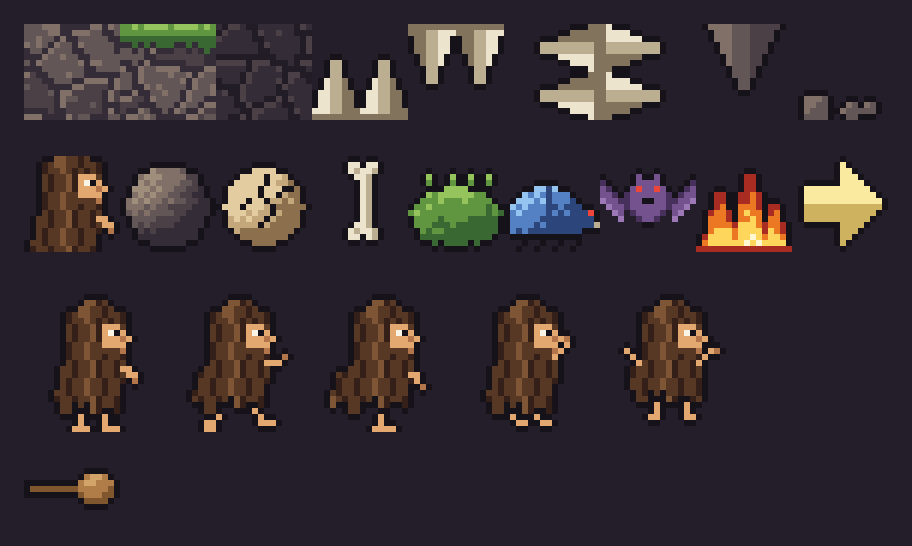
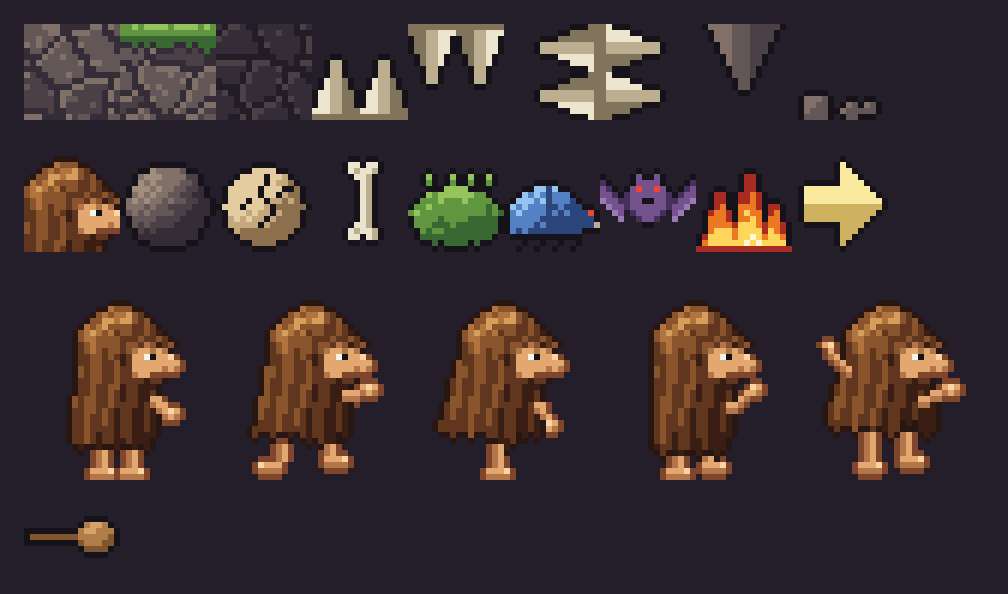
Crock: sprite rehecho a 32x32 con volumen, mechones y poses
- Melena sombreada como volumen (luz arriba-izquierda), mechones
  agrupados, brillo en la coronilla, puntas en pico y oclusión hacia
  abajo; más estrecha.
- Contornos de color (marrón oscuro el pelo, tostado la piel).
- Cara con flequillo, ojo con brillo, nariz grande y barba que se funde
  con la melena; brazo con puño y pies con dedos.
- El pelo reacciona a la pose: atrás al correr, estirado al saltar y
  abierto al caer.

Claude-Session: https://claude.ai/code/session_01DjKc4uqyUKvp8Sb1kYs3Cr

diff --git a/tools/gen_art.py b/tools/gen_art.py
@@ -67,10 +67,15 @@ PALETTE = {
     # Crock: piel y melena
     "s": (226, 168, 112),
     "S": (178, 118, 74),
-    "H": (52, 32, 24),  # pelo oscuro
-    "M": (86, 56, 36),  # pelo medio
-    "L": (126, 86, 54),  # pelo claro (brillos)
+    "H": (58, 30, 20),  # pelo: sombra
+    "M": (96, 54, 30),  # pelo: medio
+    "L": (138, 84, 44),  # pelo: luz
     "e": (250, 244, 230),  # blanco del ojo
+    "a": (250, 212, 162),  # piel con luz
+    "q": (128, 70, 44),  # contorno de la piel
+    "l": (178, 116, 60),  # pelo: brillo
+    "A": (214, 158, 92),  # pelo: brillo fuerte
+    "O": (40, 22, 18),  # contorno del pelo
     # porra
     "w": (128, 86, 46),
     "x": (176, 124, 72),
@@ -365,82 +370,176 @@ def exit_arrow():
 #
 # Cavernícola delgado con una melena larga que le cae como un manto y le
 # cubre el cuerpo; asoman la cara, los brazos y los pies. Mira a la derecha.
-# Celdas de 24x24, pies en la fila 23; la caja de colisión (16x22 px de arte)
-# ocupa las columnas 4..19.
+# Celdas de 32x32 con los pies en la fila 31; la caja de colisión (16x22 px
+# de arte) va centrada abajo (columnas 8..23, filas 10..31).
+#
+# La melena se sombrea como un volumen (luz arriba-izquierda) con mechones
+# agrupados; los contornos son de color (marrón oscuro el pelo, tostado la
+# piel), no negros.
 
-STRANDS = "HMMLMHMM"  # patrón de mechones por columna
+# Rampa del pelo, de sombra a brillo, y contornos.
+HAIR = "HMLlA"
+HAIR_OUT = "O"
+SKIN_OUT = "q"
+
+
+def _hair_mask(pose):
+    """Silueta de la melena: dict (x, y) -> True, y el borde inferior."""
+    cx, cy, r = 16.0, 10.5, 7.2  # cabeza
+    sway = {"idle": 0.0, "run1": -1.5, "run2": -2.5, "jump": 0.5, "fall": 0.0}[pose]
+    bottom = {"idle": 27, "run1": 26, "run2": 26, "jump": 28, "fall": 24}[pose]
+    flare = {"idle": 0.04, "run1": 0.1, "run2": 0.14, "jump": 0.0, "fall": 0.28}[pose]
+    m = set()
+    for y in range(0, 32):
+        if y < cy:
+            d = r * r - (y + 0.5 - cy) ** 2
+            if d <= 0:
+                continue
+            half = math.sqrt(d)
+            l, rr = cx - half, cx + half
+        else:
+            t = y - cy
+            # cae hacia atrás (sway) y se abre un poco hacia abajo
+            l = cx - r - t * flare + sway * (t / 16.0)
+            rr = cx + r - 0.6 - (t * 0.08 if pose != "fall" else -t * 0.15)
+        for x in range(32):
+            if l <= x + 0.5 <= rr:
+                m.add((x, y))
+    # Puntas en pico: mechones de 3 columnas con largos distintos.
+    rnd = random.Random(5)
+    cut = {}
+    xs = sorted({x for x, _ in m})
+    for k, x in enumerate(xs):
+        group = k // 3
+        rnd.seed(group * 7 + 1)
+        base = bottom - rnd.choice((0, 1, 2, 3))
+        if pose.startswith("run") and x < 14:
+            base -= 1  # las puntas de atrás se levantan al correr
+        cut[x] = base - (0 if k % 3 == 1 else 1)  # punta en el centro del mechón
+    m = {(x, y) for x, y in m if y <= cut[x]}
+    return m
 
 
 def crock(pose):
-    c = Canvas(24, 24)
-    # Melena: silueta por filas (izquierda, derecha). Estrecha.
-    sway = {"idle": 0, "run1": -1, "run2": -2, "jump": 0, "fall": 0}[pose]
-    bottom_base = {"idle": 20, "run1": 19, "run2": 19, "jump": 20, "fall": 18}[pose]
-    rnd = random.Random(11)
-    tips = [rnd.choice((0, 0, 1, 1, 2)) for _ in range(24)]
-    for y in range(2, 22):
-        if y < 4:
-            l, r = 10 - (y - 2), 13 + (y - 2)
-        elif y < 9:
-            l, r = 7, 16
+    c = Canvas(32, 32)
+    hair = _hair_mask(pose)
+    lx, ly = -0.6, -0.8
+    for x, y in hair:
+        # Normal aproximada: esfera arriba, cilindro abajo.
+        if y < 11:
+            nx, ny = (x + 0.5 - 16) / 7.6, (y + 0.5 - 10.5) / 7.6
         else:
-            # cae hacia atrás según la pose; se abre un poco abajo
-            spread = (y - 9) // 4
-            l = 7 - spread + (sway if y > 13 else 0)
-            r = 16 if y < 16 else 15
-        if pose == "fall" and y > 12:
-            # al caer el pelo se levanta y se abre hacia los lados
-            l -= 1
-            r += 1 if y > 15 else 0
-        for x in range(l, r + 1):
-            bottom = bottom_base - tips[x] + (1 if x < 9 and pose.startswith("run") else 0)
-            if y > bottom:
-                continue
-            wave = (y // 3 + (1 if x > 11 else 0)) % 2
-            ch = STRANDS[(x + wave) % len(STRANDS)]
-            if y < 5 and x in (9, 10):
-                ch = "L"  # brillo en la coronilla
-            c.set(x, y, ch)
-    # Cara: hueco a la derecha, con flequillo encima.
-    for y in range(6, 11):
-        for x in range(13, 17):
-            c.set(x, y, "s")
-    for x in range(12, 17):
-        c.set(x, 5, "M" if x % 2 else "H")  # flequillo
-    c.set(16, 6, "M")
-    c.set(14, 7, "e")
-    c.set(15, 7, "k")  # ojo
-    c.set(16, 8, "S")  # nariz
-    c.set(17, 8, "s")
-    for x in (13, 14, 15):
-        c.set(x, 10, "M")  # barba que se funde con la melena
-    c.set(16, 10, "S")
-    # Brazos (sólo el de delante se ve casi siempre).
-    arms = {
-        "idle": [(16, 13), (17, 13), (17, 14), (18, 14), (18, 15)],
-        "run1": [(16, 12), (17, 12), (18, 12), (19, 11)],
-        "run2": [(16, 14), (17, 14), (17, 15), (18, 16)],
-        "jump": [(16, 11), (17, 10), (18, 9), (18, 8)],
-        "fall": [(16, 12), (17, 11), (18, 10), (19, 10)],
-    }[pose]
-    for x, y in arms:
+            nx, ny = (x + 0.5 - 15.5) / 8.0, 0.25
+        nz = max(0.0, 1 - nx * nx - ny * ny) ** 0.5
+        light = nx * lx + ny * ly + nz * 0.55
+        # Mechones: bandas suaves y onduladas, agrupadas de 3 en 3 columnas.
+        strand = math.sin((x * 1.9) + math.sin(y * 0.35) * 1.4)
+        v = 1.05 + light * 1.7 + strand * 0.6 + (BAYER[y % 4][x % 4] / 16 - 0.5) * 0.15
+        v -= max(0, y - 19) * 0.09  # oclusión: más oscuro hacia las puntas
+        # Brillo del pelo: un arco en la coronilla.
+        if 3 <= y <= 7 and abs(math.hypot(x + 0.5 - 17, y + 0.5 - 11) - 6.2) < 0.7 and x < 19:
+            v += 1.2
+        c.set(x, y, HAIR[max(0, min(len(HAIR) - 1, int(v)))])
+
+    # Cara: hueco a la derecha, bajo el flequillo.
+    face = {
+        (x, y)
+        for y in range(9, 16)
+        for x in range(18, 24)
+        if not (y == 15 and x < 20) and not (y >= 14 and x > 22)
+    }
+    for x, y in face:
         c.set(x, y, "s")
-    hx, hy = arms[-1]
-    c.set(hx, hy, "S")  # mano
-    if pose == "fall":
-        for x, y in ((6, 12), (5, 11), (4, 10)):  # brazo de atrás, arriba
-            c.set(x, y, "s")
-    # Piernas y pies descalzos.
-    feet = {
-        "idle": [(9, 21), (9, 22), (8, 23), (9, 23), (10, 23), (13, 21), (13, 22), (13, 23), (14, 23), (15, 23)],
-        "run1": [(8, 21), (7, 22), (6, 22), (6, 23), (7, 23), (14, 20), (15, 21), (15, 22), (16, 22), (17, 22)],
-        "run2": [(11, 21), (11, 22), (10, 23), (11, 23), (12, 23), (13, 23)],
-        "jump": [(9, 21), (10, 22), (11, 22), (13, 21), (14, 22), (15, 22)],
-        "fall": [(9, 19), (9, 20), (8, 21), (9, 21), (14, 19), (14, 20), (14, 21), (15, 21)],
+    for x, y in ((18, 9), (18, 10), (18, 14), (19, 15)):
+        c.set(x, y, "S")  # sombra bajo el pelo
+    for x in range(20, 23):
+        c.set(x, 9, "S")
+    c.set(23, 10, "S")
+    # Flequillo: mechones que caen sobre la frente.
+    for x, y in ((17, 8), (18, 8), (19, 8), (20, 8), (21, 8), (22, 8), (23, 8), (18, 9), (19, 9), (21, 9), (23, 9), (24, 9)):
+        c.set(x, y, "M" if (x + y) % 3 else "L")
+    c.set(22, 9, "H")
+    # Ojo: blanco + pupila, con la ceja (el flequillo) encima.
+    c.set(20, 11, "e")
+    c.set(21, 11, "k")
+    c.set(21, 10, "S")
+    # Nariz grande que sobresale.
+    for x, y in ((23, 11), (24, 11), (23, 12), (24, 12), (25, 12), (24, 13)):
+        c.set(x, y, "s")
+    c.set(24, 11, "a")
+    c.set(25, 13, "S")
+    c.set(23, 13, "S")
+    # Boca.
+    c.set(21, 14, "q")
+    c.set(22, 14, "q")
+    # Barba que se funde con la melena bajo la barbilla.
+    for x, y in ((18, 15), (19, 15), (20, 15), (21, 15), (22, 15), (19, 16), (20, 16), (21, 16), (20, 17)):
+        c.set(x, y, "M" if (x * y) % 4 else "H")
+
+    # Brazo delantero y puño (donde se agarra la porra).
+    arm = {
+        "idle": [(21, 18), (22, 18), (22, 19), (23, 19), (23, 20), (24, 20)],
+        "run1": [(21, 17), (22, 17), (23, 17), (24, 16), (25, 16)],
+        "run2": [(21, 19), (22, 19), (22, 20), (23, 21), (23, 22)],
+        "jump": [(21, 19), (22, 19), (23, 18), (24, 17), (25, 16)],
+        "fall": [(21, 18), (22, 18), (23, 17), (24, 17), (25, 16), (26, 16)],
     }[pose]
-    for x, y in feet:
-        c.set(x, y, "s" if c.get(x, y + 1) in (".",) or y == 23 else "S")
-    c.outline()
+    for x, y in arm:
+        c.set(x, y, "s")
+        c.set(x, y + 1, "S")
+    hx, hy = arm[-1]
+    for dx, dy in ((0, 0), (1, 0), (0, 1), (1, 1)):
+        c.set(hx + dx, hy + dy, "s")
+    c.set(hx, hy, "a")
+    c.set(hx + 1, hy + 1, "S")
+    if pose == "fall":
+        # Brazo de atrás asomando arriba (manos arriba al caer).
+        for x, y in ((9, 13), (8, 12), (7, 11), (6, 10)):
+            c.set(x, y, "s")
+            c.set(x, y + 1, "S")
+        c.set(5, 9, "s")
+        c.set(6, 9, "a")
+
+    # Piernas cortas y pies descalzos con dedos.
+    def foot(x, y, toes_right=True):
+        # talón .. dedos (5 px), 2 de alto
+        for dx in range(4):
+            c.set(x + dx, y, "s")
+            c.set(x + dx, y + 1, "S")
+        c.set(x + (3 if toes_right else 0), y, "a")
+
+    def leg(x, y0, y1):
+        for y in range(y0, y1 + 1):
+            c.set(x, y, "S")
+            c.set(x + 1, y, "s")
+
+    if pose == "idle":
+        leg(12, 27, 29), foot(11, 30)
+        leg(17, 27, 29), foot(16, 30)
+    elif pose == "run1":
+        leg(10, 26, 28), foot(7, 29, toes_right=False)
+        leg(18, 26, 27), foot(18, 28)
+    elif pose == "run2":
+        leg(14, 26, 29), foot(13, 30)
+    elif pose == "jump":
+        leg(12, 28, 29), foot(11, 30)
+        leg(17, 28, 28), foot(17, 29)
+    elif pose == "fall":
+        leg(12, 24, 28), foot(11, 29)
+        leg(18, 24, 27), foot(18, 28)
+
+    # Contornos de color: pelo con marrón oscuro, piel con tostado.
+    skin = set("saSq")
+    add = []
+    for y in range(32):
+        for x in range(32):
+            if c.px[y][x] != ".":
+                continue
+            ns = [c.get(x + dx, y + dy) for dx, dy in ((1, 0), (-1, 0), (0, 1), (0, -1))]
+            if any(n not in (".",) for n in ns):
+                add.append((x, y, SKIN_OUT if any(n in skin for n in ns) and not any(n in HAIR for n in ns) else HAIR_OUT))
+    for x, y, ch in add:
+        c.set(x, y, ch)
     return c
 
 
@@ -502,7 +601,7 @@ def objetos():
     spawn_small = Canvas(T, T)
     for y in range(T):  # cabeza y hombros de Crock, recortados
         for x in range(T):
-            spawn_small.set(x, y, spawn.get(x + 4, y + 3))
+            spawn_small.set(x, y, spawn.get(x + 9, y + 2))
     return [
         ("spawn", spawn_small),
         ("rock", ball("12345", r=6.8)),

diff --git a/crates/crock/src/render.rs b/crates/crock/src/render.rs
@@ -307,11 +307,11 @@ fn draw_player(
             // Sin golpes: apagado, como pista de que hay que recargar.
             s.set_tint(160, 160, 200);
         }
-        // Celda de 12×12 unidades con los pies abajo y centrada.
+        // Celda de 16×16 unidades (32 px de arte) con los pies abajo y centrada.
         s.draw(
             canvas,
             frame,
-            view.rect(cx - 6.0, y + h - 12.0, 12.0, 12.0),
+            view.rect(cx - 8.0, y + h - 16.0, 16.0, 16.0),
             facing_left,
         );
         s.set_tint(255, 255, 255);
@@ -327,7 +327,8 @@ fn draw_player(
     // La porra: girada hacia el golpe mientras dura el swing; si no, en la
     // mano, inclinada hacia delante.
     let f = if facing_left { -1.0 } else { 1.0 };
-    let (hx, hy) = (cx + f * 3.0, cy + 1.0);
+    // La mano del sprite (puño) queda delante, a media altura.
+    let (hx, hy) = (cx + f * 4.5, cy - 0.5);
     let (dir, swinging) = if p.swing > 0 {
         (unit(p.strike_dir), true)
     } else {

diff --git a/crates/crock/src/gfx.rs b/crates/crock/src/gfx.rs
@@ -61,7 +61,7 @@ impl Gfx {
         Self {
             cueva: load(canvas, &g.join("cueva.png"), 16.0, 16.0),
             objetos: load(canvas, &g.join("objetos.png"), 16.0, 16.0),
-            crock: load(canvas, &g.join("crock.png"), 24.0, 24.0),
+            crock: load(canvas, &g.join("crock.png"), 32.0, 32.0),
             porra: load(canvas, &g.join("porra.png"), 16.0, 7.0),
         }
     }
